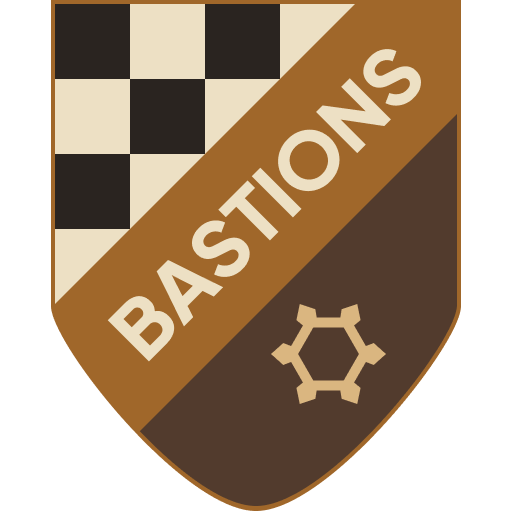
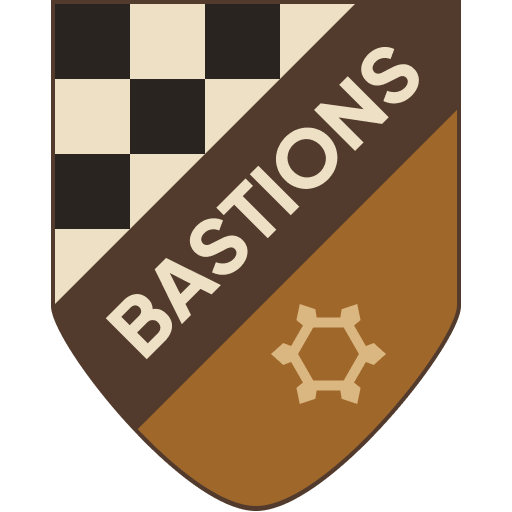
bastions kit

diff --git a/content/clubs/bastions_de_quebec.md b/content/clubs/bastions_de_quebec.md
@@ -20,6 +20,12 @@ url: /clubs/bastions_de_quebec/
 <tr><th>Owner</th><td>—</td></tr>
 <tr><th>Head Coach</th><td>—</td></tr>
 <tr><th>League</th><td><a href="/competitions/la-ligue/">La Ligue</a></td></tr>
+<tr><td class="infobox-kits-cell" colspan="2">
+<div class="infobox-kits">
+{{< club_kit "bastions_home.png" "Bastions de Québec home kit" "Home colours" >}}
+{{< club_kit "bastions_away.png" "Bastions de Québec away kit" "Away colours" >}}
+</div>
+</td></tr>
 <tr><td class="infobox-season" colspan="2"><a href="/seasons/2023/">Current Season</a></td></tr>
 </table>
 </div>
